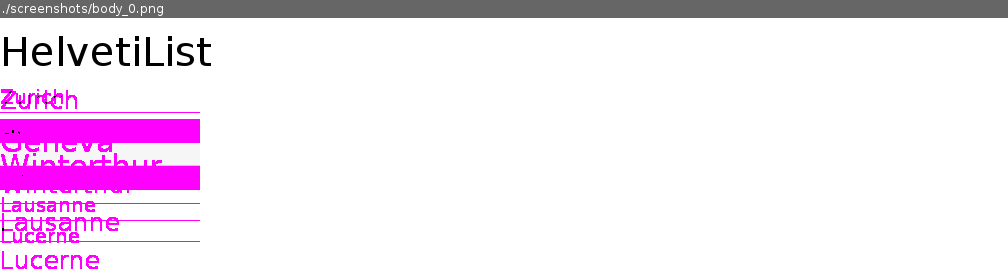
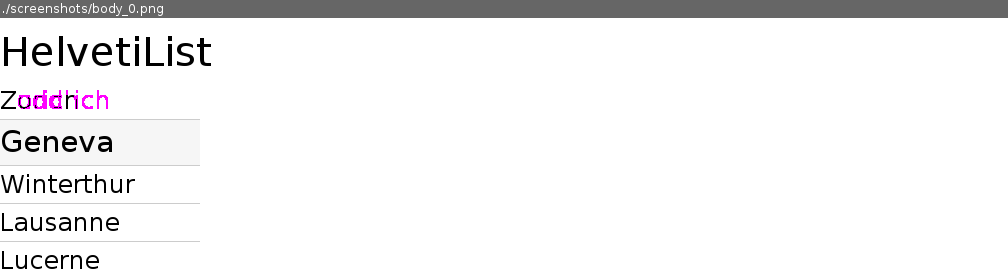
draft 1

Changed region(s): [[0.0, 0.3154, 0.2153, 0.6882], [0.0, 0.7168, 0.1845, 0.8889], [0.0, 0.9176, 0.123, 0.9749]]

diff --git a/.guides/private/test.js b/.guides/private/test.js
@@ -1,18 +1,20 @@
+
+// Suppress console.log
 const log_original = console.log
+
+// Alternate function to call to send console messages back to Guide
 const log = function() {
   return log_original.apply(console, arguments)
 }
-
 console.log = function () {}
 
+// Start web server
 var phantomcss = require('phantomcss');
 var http = require('webserver').create();
 const PORT = 3000
 
-
 function handleRequest(request, response){
   response.statusCode = 200
-  //response.setHeader('Content-Type', 'text/html; charset=utf-8')
   response.write(fs.read('/home/codio/workspace/' + request.url))
   response.close()
 }
@@ -27,11 +29,13 @@ casper.test.begin('Tags', function(test) {
   });
   
   phantomcss.init({
+    failedComparisonsRoot: fs.absolute('/home/codio/workspace/' + casper.cli.get('folder') ),
+    mismatchTolerance: 0.2,
     rebase: casper.cli.get('rebase')
   });
 
   // open page
-  casper.start('http://localhost:3000/list1/list.html');
+  casper.start('http://localhost:3000/' + casper.cli.get('folder') + '/list.html');
 
   // set your preferred view port size
   casper.viewport(1024, 768);
@@ -54,10 +58,10 @@ casper.test.begin('Tags', function(test) {
   casper.run(function() {
     var exitCode = 0;
     if (failures.length > 0) {
-      log(JSON.stringify(failures, null, ' '))
+      log('This is not correct. Please check the png file in the file tree to see the difference.')
       exitCode = 1;
     } else {
-      log('Well done, this is correct.')
+      log('That is correct')
     }
     casper.test.done(exitCode);
   });

diff --git a/.guides/private/xtest1.js b/.guides/private/xtest1.js
@@ -1,39 +1,37 @@
+
+// Suppress console.log
 const log_original = console.log
+
+// Alternate function to call to send console messages back to Guide
 const log = function() {
   return log_original.apply(console, arguments)
 }
-
 console.log = function () {}
 
+// Start web server
 var phantomcss = require('phantomcss');
 var http = require('webserver').create();
 const PORT = 3000
 
-
 function handleRequest(request, response){
   response.statusCode = 200
-  //response.setHeader('Content-Type', 'text/html; charset=utf-8')
   response.write(fs.read('/home/codio/workspace/' + request.url))
   response.close()
 }
 http.listen(PORT, handleRequest);
 
-
-// CONFIG
-
-
-
 // start a casper test
 casper.test.begin('Tags', function(test) {
   var failures = [];
-  var fobj = object;
   
   casper.test.on("fail", function(failure) {
-    fobj = casper.test.getFailures()
     failures.push(failure);
   });
   
   phantomcss.init({
+    //screenshotRoot: fs.absolute('/home/codio/workspace/.guides/x'),
+    //comparisonResultRoot: fs.absolute('/home/codio/workspace/.guides/y'),
+    failedComparisonsRoot: fs.absolute('/home/codio/workspace/list1'),
     rebase: casper.cli.get('rebase')
   });
 
@@ -61,10 +59,10 @@ casper.test.begin('Tags', function(test) {
   casper.run(function() {
     var exitCode = 0;
     if (failures.length > 0) {
-      log(util.inspect(failures)
+      log('failed')
       exitCode = 1;
     } else {
-      log('Well done, this is correct.')
+      log('That is correct')
     }
     casper.test.done(exitCode);
   });
